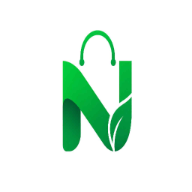
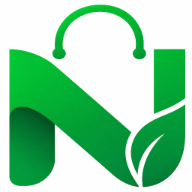
add

diff --git a/apps/web/app/auth/signup/page.tsx b/apps/web/app/auth/signup/page.tsx
@@ -101,6 +101,22 @@ function SignupForm() {
           />
 
           <form onSubmit={handleSignup}>
+            {/* Google Button - Placed at the top */}
+            <button
+              type="button"
+              onClick={handleGoogleSignup}
+              className="w-full flex items-center justify-center gap-3 border border-gray-300 dark:border-gray-600 bg-white dark:bg-gray-900 text-gray-700 dark:text-gray-200 py-3 rounded-lg font-medium hover:bg-gray-50 dark:hover:bg-gray-800 transition mb-6"
+            >
+              <FcGoogle className="w-5 h-5" />
+              Continue with Google
+            </button>
+
+            <div className="my-6 flex items-center gap-3">
+              <span className="h-px flex-1 bg-gray-200 dark:bg-gray-700" />
+              <span className="text-xs uppercase tracking-wide text-gray-400">or sign up with email</span>
+              <span className="h-px flex-1 bg-gray-200 dark:bg-gray-700" />
+            </div>
+
             <div className="mb-4">
               <label className="block text-gray-700 dark:text-gray-300 text-sm font-medium mb-2">
                 Email Address
@@ -108,7 +124,7 @@ function SignupForm() {
               <input
                 type="email"
                 placeholder="you@example.com"
-                className="w-full px-4 py-3 border border-gray-300 dark:border-gray-600 rounded-lg focus:ring-2 focus:ring-blue-500 focus:border-blue-500 outline-none bg-white dark:bg-gray-900 text-gray-900 dark:text-gray-100 transition"
+                className="w-full px-4 py-3 border border-gray-300 dark:border-gray-600 rounded-lg focus:ring-2 focus:ring-[#009933] focus:border-[#009933] outline-none bg-white dark:bg-gray-900 text-gray-900 dark:text-gray-100 transition"
                 value={email}
                 onChange={(e) => setEmail(e.target.value)}
                 required
@@ -124,7 +140,7 @@ function SignupForm() {
                 <input
                   type={showPassword ? "text" : "password"}
                   placeholder="••••••••"
-                  className="w-full pl-10 pr-10 py-3 border border-gray-300 dark:border-gray-600 rounded-lg focus:ring-2 focus:ring-blue-500 focus:border-blue-500 outline-none bg-white dark:bg-gray-900 text-gray-900 dark:text-gray-100 transition"
+                  className="w-full pl-10 pr-10 py-3 border border-gray-300 dark:border-gray-600 rounded-lg focus:ring-2 focus:ring-[#009933] focus:border-[#009933] outline-none bg-white dark:bg-gray-900 text-gray-900 dark:text-gray-100 transition"
                   value={password}
                   onChange={(e) => setPassword(e.target.value)}
                   required
@@ -148,7 +164,7 @@ function SignupForm() {
                 <input
                   type={showConfirmPassword ? "text" : "password"}
                   placeholder="••••••••"
-                  className="w-full pl-10 pr-10 py-3 border border-gray-300 dark:border-gray-600 rounded-lg focus:ring-2 focus:ring-blue-500 focus:border-blue-500 outline-none bg-white dark:bg-gray-900 text-gray-900 dark:text-gray-100 transition"
+                  className="w-full pl-10 pr-10 py-3 border border-gray-300 dark:border-gray-600 rounded-lg focus:ring-2 focus:ring-[#009933] focus:border-[#009933] outline-none bg-white dark:bg-gray-900 text-gray-900 dark:text-gray-100 transition"
                   value={confirmPassword}
                   onChange={(e) => setConfirmPassword(e.target.value)}
                   required
@@ -168,7 +184,7 @@ function SignupForm() {
               disabled={loading}
               whileHover={{ scale: 1.02 }}
               whileTap={{ scale: 0.98 }}
-              className="w-full bg-gradient-to-r from-blue-600 to-purple-600 text-white py-3 rounded-lg font-semibold shadow-lg hover:shadow-xl transition-all disabled:opacity-50 disabled:cursor-not-allowed"
+              className="w-full bg-[#009933] text-white py-3 rounded-lg font-semibold shadow-lg hover:bg-[#006B2C] transition-all disabled:opacity-50 disabled:cursor-not-allowed"
             >
               {loading ? (
                 <div className="flex items-center justify-center gap-2">
@@ -181,27 +197,12 @@ function SignupForm() {
             </motion.button>
           </form>
 
-          <div className="my-6 flex items-center gap-3">
-            <span className="h-px flex-1 bg-gray-200 dark:bg-gray-700" />
-            <span className="text-xs uppercase tracking-wide text-gray-400">or</span>
-            <span className="h-px flex-1 bg-gray-200 dark:bg-gray-700" />
-          </div>
-
-          <button
-            type="button"
-            onClick={handleGoogleSignup}
-            className="w-full flex items-center justify-center gap-3 border border-gray-300 dark:border-gray-600 bg-white dark:bg-gray-900 text-gray-700 dark:text-gray-200 py-3 rounded-lg font-medium hover:bg-gray-50 dark:hover:bg-gray-800 transition"
-          >
-            <FcGoogle className="w-5 h-5" />
-            Continue with Google
-          </button>
-
           <div className="mt-6 text-center">
             <p className="text-gray-600 dark:text-gray-400">
               Already have an account?{" "}
               <Link
                 href={loginHref}
-                className="text-blue-600 dark:text-blue-400 hover:text-blue-800 dark:hover:text-blue-300 font-semibold"
+                className="text-[#009933] dark:text-[#009933] hover:text-[#006B2C] dark:hover:text-[#006B2C] font-semibold"
               >
                 Sign in
               </Link>
@@ -220,7 +221,7 @@ export default function SignupPage() {
         <div className="min-h-screen flex flex-col bg-gradient-to-br from-gray-50 to-blue-50 dark:from-gray-900 dark:to-gray-800 transition-colors">
           <div className="flex-1 flex items-center justify-center">
             <div className="text-center">
-              <div className="w-8 h-8 border-2 border-blue-600 border-t-transparent rounded-full animate-spin mx-auto"></div>
+              <div className="w-8 h-8 border-2 border-[#009933] border-t-transparent rounded-full animate-spin mx-auto"></div>
               <p className="mt-2 text-gray-600 dark:text-gray-400">Loading...</p>
             </div>
           </div>

diff --git a/apps/web/app/auth/login/page.tsx b/apps/web/app/auth/login/page.tsx
@@ -88,6 +88,22 @@ function LoginForm() {
           />
 
           <form onSubmit={handleEmailLogin}>
+            {/* Google Button - Placed at the top */}
+            <button
+              type="button"
+              onClick={handleGoogleLogin}
+              className="w-full flex items-center justify-center gap-3 border border-gray-300 dark:border-gray-600 bg-white dark:bg-gray-900 text-gray-700 dark:text-gray-200 py-3 rounded-lg font-medium hover:bg-gray-50 dark:hover:bg-gray-800 transition mb-6"
+            >
+              <FcGoogle className="w-5 h-5" />
+              Continue with Google
+            </button>
+
+            <div className="my-6 flex items-center gap-3">
+              <span className="h-px flex-1 bg-gray-200 dark:bg-gray-700" />
+              <span className="text-xs uppercase tracking-wide text-gray-400">or sign in with email</span>
+              <span className="h-px flex-1 bg-gray-200 dark:bg-gray-700" />
+            </div>
+
             <div className="mb-4">
               <label className="block text-gray-700 dark:text-gray-300 text-sm font-medium mb-2">
                 Email Address
@@ -97,7 +113,7 @@ function LoginForm() {
                 <input
                   type="email"
                   placeholder="you@example.com"
-                  className="w-full pl-10 pr-4 py-3 border border-gray-300 dark:border-gray-600 rounded-lg focus:ring-2 focus:ring-blue-500 focus:border-blue-500 outline-none bg-white dark:bg-gray-900 text-gray-900 dark:text-gray-100 transition"
+                  className="w-full pl-10 pr-4 py-3 border border-gray-300 dark:border-gray-600 rounded-lg focus:ring-2 focus:ring-[#009933] focus:border-[#009933] outline-none bg-white dark:bg-gray-900 text-gray-900 dark:text-gray-100 transition"
                   value={email}
                   onChange={(e) => setEmail(e.target.value)}
                   required
@@ -114,7 +130,7 @@ function LoginForm() {
                 <input
                   type={showPassword ? "text" : "password"}
                   placeholder="••••••••"
-                  className="w-full pl-10 pr-10 py-3 border border-gray-300 dark:border-gray-600 rounded-lg focus:ring-2 focus:ring-blue-500 focus:border-blue-500 outline-none bg-white dark:bg-gray-900 text-gray-900 dark:text-gray-100 transition"
+                  className="w-full pl-10 pr-10 py-3 border border-gray-300 dark:border-gray-600 rounded-lg focus:ring-2 focus:ring-[#009933] focus:border-[#009933] outline-none bg-white dark:bg-gray-900 text-gray-900 dark:text-gray-100 transition"
                   value={password}
                   onChange={(e) => setPassword(e.target.value)}
                   required
@@ -132,7 +148,7 @@ function LoginForm() {
             <div className="mb-6 flex items-center justify-end">
               <Link
                 href="/auth/reset-password"
-                className="text-sm text-blue-600 hover:text-blue-800 dark:text-blue-400 dark:hover:text-blue-300 font-medium"
+                className="text-sm text-[#009933] hover:text-[#006B2C] dark:text-[#009933] dark:hover:text-[#006B2C] font-medium"
               >
                 Forgot password?
               </Link>
@@ -143,7 +159,7 @@ function LoginForm() {
               disabled={loading}
               whileHover={{ scale: 1.02 }}
               whileTap={{ scale: 0.98 }}
-              className="w-full bg-gradient-to-r from-blue-600 to-purple-600 text-white py-3 rounded-lg font-semibold shadow-lg hover:shadow-xl transition-all disabled:opacity-50 disabled:cursor-not-allowed"
+              className="w-full bg-[#009933] text-white py-3 rounded-lg font-semibold shadow-lg hover:bg-[#006B2C] transition-all disabled:opacity-50 disabled:cursor-not-allowed"
             >
               {loading ? (
                 <div className="flex items-center justify-center gap-2">
@@ -156,27 +172,12 @@ function LoginForm() {
             </motion.button>
           </form>
 
-          <div className="my-6 flex items-center gap-3">
-            <span className="h-px flex-1 bg-gray-200 dark:bg-gray-700" />
-            <span className="text-xs uppercase tracking-wide text-gray-400">or</span>
-            <span className="h-px flex-1 bg-gray-200 dark:bg-gray-700" />
-          </div>
-
-          <button
-            type="button"
-            onClick={handleGoogleLogin}
-            className="w-full flex items-center justify-center gap-3 border border-gray-300 dark:border-gray-600 bg-white dark:bg-gray-900 text-gray-700 dark:text-gray-200 py-3 rounded-lg font-medium hover:bg-gray-50 dark:hover:bg-gray-800 transition"
-          >
-            <FcGoogle className="w-5 h-5" />
-            Continue with Google
-          </button>
-
           <div className="mt-6 text-center">
             <p className="text-gray-600 dark:text-gray-400">
               Don&apos;t have an account?{" "}
               <Link
                 href={signupHref}
-                className="text-blue-600 hover:text-blue-800 dark:text-blue-400 dark:hover:text-blue-300 font-semibold"
+                className="text-[#009933] hover:text-[#006B2C] dark:text-[#009933] dark:hover:text-[#006B2C] font-semibold"
               >
                 Sign up
               </Link>
@@ -194,7 +195,7 @@ export default function LoginPage() {
     <Suspense fallback={
       <div className="min-h-screen flex items-center justify-center bg-gradient-to-br from-gray-50 to-blue-50 dark:from-gray-900 dark:to-gray-800 transition-colors p-4">
         <div className="text-center">
-          <div className="w-8 h-8 border-2 border-blue-600 border-t-transparent rounded-full animate-spin mx-auto"></div>
+          <div className="w-8 h-8 border-2 border-[#009933] border-t-transparent rounded-full animate-spin mx-auto"></div>
           <p className="mt-2 text-gray-600 dark:text-gray-400">Loading...</p>
         </div>
       </div>

diff --git a/apps/web/components/ui/auth/AuthCard.tsx b/apps/web/components/ui/auth/AuthCard.tsx
@@ -18,13 +18,13 @@ export default function AuthCard({ children, title, subtitle, icon }: AuthCardPr
       transition={{ duration: 0.3 }}
       className="max-w-md w-full"
     >
-      <div className="bg-white/90 dark:bg-gray-900/90 backdrop-blur-sm rounded-2xl shadow-2xl overflow-hidden border border-gray-200 dark:border-gray-700 transition-colors">
-        {/* Top Gradient */}
-        <div className="h-2 bg-gradient-to-r from-blue-500 via-purple-500 to-pink-500"></div>
+      <div className="bg-white/90 dark:bg-gray-900/90 backdrop-blur-sm rounded-2xl shadow-2xl overflow-hidden border-2 border-[#009933]/20 dark:border-[#009933]/20 transition-colors hover:border-[#009933]/40 dark:hover:border-[#009933]/40">
+        {/* Top Gradient - Green */}
+        <div className="h-2 bg-gradient-to-r from-[#009933] via-[#00b33c] to-[#006B2C]"></div>
 
         <div className="p-8">
           <div className="flex items-center gap-3 mb-4">
-            <div className="p-2 rounded-lg bg-blue-50 dark:bg-blue-900 text-blue-600 dark:text-blue-400 transition-colors">
+            <div className="p-2 rounded-lg bg-[#009933]/10 dark:bg-[#009933]/20 text-[#009933] dark:text-[#009933] transition-colors">
               {icon}
             </div>
             <div>

diff --git a/apps/web/components/ui/auth/AuthHeader.tsx b/apps/web/components/ui/auth/AuthHeader.tsx
@@ -11,10 +11,10 @@ export default function AuthHeader() {
           initial={{ scale: 0 }}
           animate={{ scale: 1 }}
           transition={{ type: "spring", stiffness: 260, damping: 20 }}
-          className="relative w-24 h-24 rounded-full overflow-hidden shadow-2xl ring-4 ring-blue-500 dark:ring-blue-400 flex items-center justify-center"
+          className="relative w-24 h-24 rounded-full overflow-hidden shadow-2xl ring-4 ring-[#009933] dark:ring-[#009933] flex items-center justify-center"
         >
           <Image
-            src="/assets/logo.jpg"
+            src="/assets/logo.png"
             alt="Nurushop Logo"
             fill
             className="object-contain"
@@ -22,7 +22,7 @@ export default function AuthHeader() {
         </motion.div>
       </div>
       <div className="mt-4 text-center">
-        <h1 className="font-bold text-2xl bg-gradient-to-r from-blue-600 to-purple-600 bg-clip-text text-transparent">
+        <h1 className="font-bold text-2xl text-[#009933] dark:text-[#009933]">
           Nurushop
         </h1>
         <p className="text-gray-600 dark:text-gray-300 mt-1 text-sm">

diff --git a/apps/web/components/ui/Sidebar.tsx b/apps/web/components/ui/Sidebar.tsx
@@ -84,7 +84,7 @@ export default function Sidebar({ isOpen, setIsOpen, categories }: SidebarProps)
             <div className="p-6 border-b border-gray-200 dark:border-gray-700 flex items-center justify-between bg-white dark:bg-gray-900">
               <div className="flex items-center gap-3">
                 <Image
-                  src="/assets/logo.jpg"
+                  src="/assets/logo.png"
                   alt="NuruShop Logo"
                   width={36}
                   height={36}
@@ -213,7 +213,7 @@ export default function Sidebar({ isOpen, setIsOpen, categories }: SidebarProps)
                     className="flex items-center gap-3 px-3 py-2 rounded-lg hover:bg-blue-50 dark:hover:bg-gray-700 transition-colors"
                   >
                     <Image
-                      src={user.imageUrl || "/assets/logo.jpg"}
+                      src={user.imageUrl || "/assets/logo.png"}
                       alt="User Avatar"
                       width={32}
                       height={32}

diff --git a/apps/web/components/ui/FeaturedHero.tsx b/apps/web/components/ui/FeaturedHero.tsx
@@ -242,12 +242,12 @@ export default function FeaturedSection({ products, categories = [] }: FeaturedS
                     <Link href={`/products/${item.id}`} className="flex-grow block">
                       <div className="relative w-full h-40 sm:h-44 bg-gray-100 dark:bg-gray-800 rounded-t-xl overflow-hidden">
                         <Image
-                          src={item.image || "/assets/logo.jpg"}
+                          src={item.image || "/assets/logo.png"}
                           alt={item.name}
                           fill
                           className="object-contain"
                           placeholder="blur"
-                          blurDataURL="/assets/logo.jpg"
+                          blurDataURL="/assets/logo.png"
                         />
                       </div>
 

diff --git a/apps/web/app/vendors/register/page.tsx b/apps/web/app/vendors/register/page.tsx
@@ -279,7 +279,7 @@ export default function VendorForm() {
         <div className="text-center max-w-md mx-auto">
           <div className="relative w-32 h-32 mx-auto mb-6">
             <Image
-              src="/assets/logo.jpg"
+              src="/assets/logo.png"
               alt="NuruShop"
               fill
               className="object-contain animate-pulse"
@@ -1031,7 +1031,7 @@ export default function VendorForm() {
           <div className="flex justify-center mb-3">
             <div className="relative w-24 h-24">
               <Image
-                src="/assets/logo.jpg"
+                src="/assets/logo.png"
                 alt="NuruShop"
                 fill
                 className="object-contain"

diff --git a/apps/web/app/(public)/checkout/page.tsx b/apps/web/app/(public)/checkout/page.tsx
@@ -46,7 +46,7 @@ function toRelated(p: ProductDTO): RelatedProduct {
     id: p.id,
     name: p.name,
     price: Number(p.sellingPrice ?? p.price) || 0,
-    image: p.images[0] || "/assets/logo.jpg",
+    image: p.images[0] || "/assets/logo.png",
   };
 }
 
@@ -369,7 +369,7 @@ function CheckoutContent() {
                 >
                     <div className="relative h-24 w-24 overflow-hidden rounded-md bg-slate-50 dark:bg-slate-800">
                       <Image
-                        src={item.image || "/assets/logo.jpg"}
+                        src={item.image || "/assets/logo.png"}
                         alt={item.name}
                         fill
                         className="object-contain p-2"

diff --git a/apps/web/app/admin/dashboard/components/OrdersTab.tsx b/apps/web/app/admin/dashboard/components/OrdersTab.tsx
@@ -152,7 +152,7 @@ export default function OrdersTab({ role }: OrdersTabProps) {
                       <div key={item.id} className="flex gap-3 rounded-lg border border-slate-200 dark:border-slate-700 p-2">
                         <div className="relative h-12 w-12 rounded-md overflow-hidden bg-slate-100 dark:bg-slate-800 shrink-0">
                           <Image
-                            src={item.imageUrl || "/assets/logo.jpg"}
+                            src={item.imageUrl || "/assets/logo.png"}
                             alt={item.productName || "Product"}
                             fill
                             sizes="48px"

diff --git a/apps/web/app/layout.tsx b/apps/web/app/layout.tsx
@@ -64,7 +64,7 @@ export const metadata = {
     siteName: "NuruShop",
     images: [
       {
-        url: "/assets/logo.jpg",
+        url: "/assets/logo.png",
         width: 1200,
         height: 630,
         alt: "NuruShop Natural Health Marketplace",
@@ -79,7 +79,7 @@ export const metadata = {
     title: "NuruShop â€“ Health & Truth Marketplace",
     description:
       "Discover natural healing products, organic foods, and inspiring spiritual books at NuruShop.",
-    images: ["/assets/logo.jpg"],
+    images: ["/assets/logo.png"],
   },
 
   manifest: "/manifest.json",

diff --git a/apps/web/app/profile/page.tsx b/apps/web/app/profile/page.tsx
@@ -155,7 +155,7 @@ function ProfilePageContent() {
   const displayName = profile?.fullName || appUser?.name || "User";
   const firstName = displayName.split(" ")[0];
   const email = appUser?.email || "";
-  const avatarUrl = appUser?.imageUrl || "/assets/logo.jpg";
+  const avatarUrl = appUser?.imageUrl || "/assets/logo.png";
 
   /* ------------------- Notifications ------------------- */
   const notificationCount = unreadMessages + pendingOrders + unreadReviewPrompts;

diff --git a/apps/web/lib/view/catalog.ts b/apps/web/lib/view/catalog.ts
@@ -11,7 +11,7 @@ import type { BannerDTO, ProductDTO, WholesaleItemDTO } from "@nuru/types";
  * is absorbed here instead of rippling through every component.
  */
 
-const FALLBACK_IMAGE = "/assets/logo.jpg";
+const FALLBACK_IMAGE = "/assets/logo.png";
 const NEW_WINDOW_MS = 7 * 24 * 60 * 60 * 1000;
 
 /** Parse a decimal-string money field to a finite number (0 on failure). */
